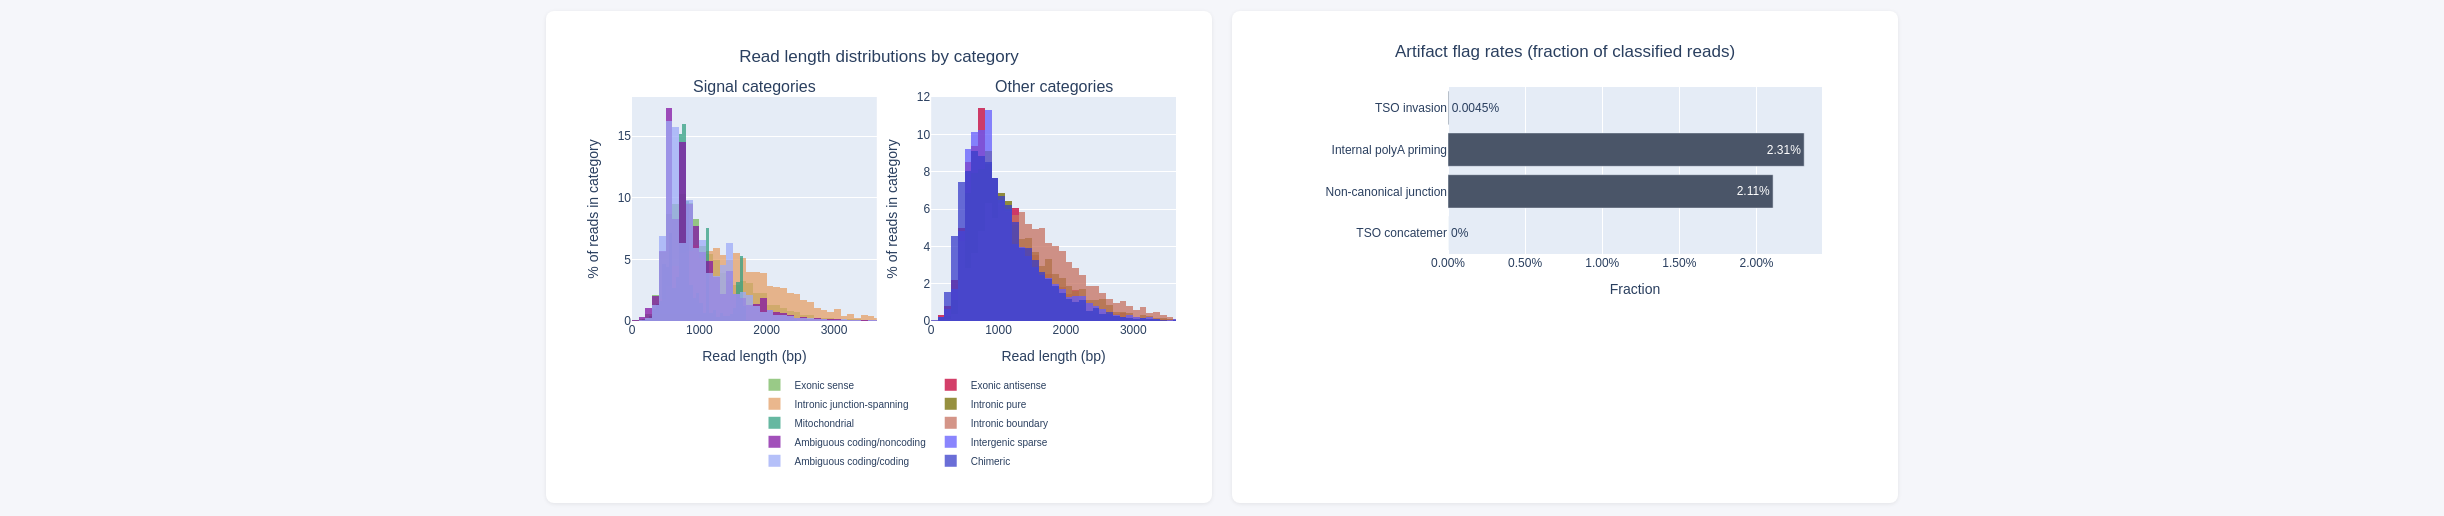
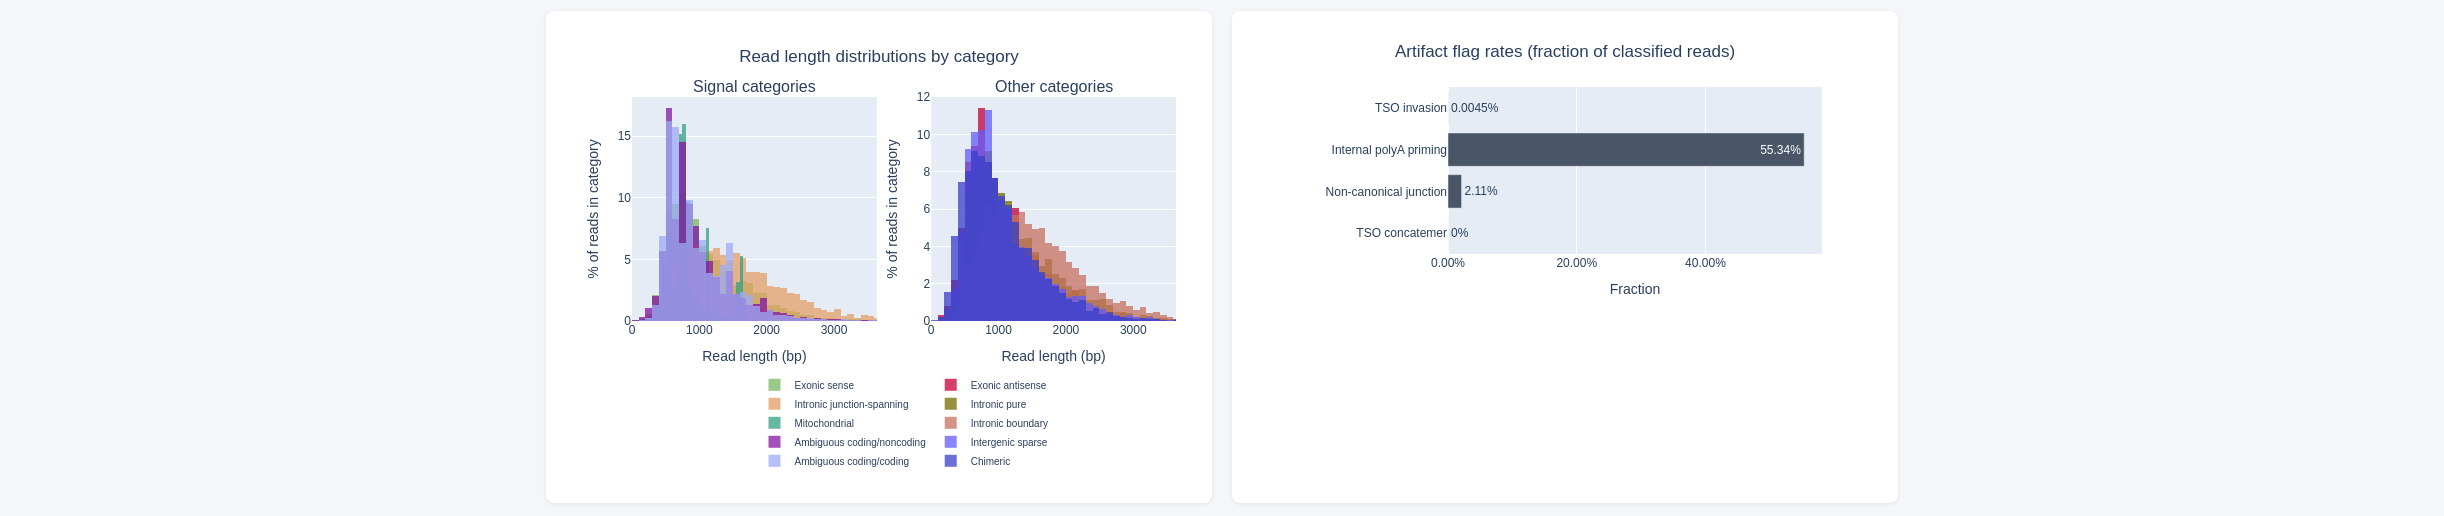
docs: example screenshots and white paper table from a 0.11.0 run
Same Kinnex sample (37.4 M reads, 2,047 cells), same arguments as the 0.10.0
run, run with the release code. The previews are cut from its report with
headless Chrome at the same width and crop; previews 1, 3 and 4 come out
pixel-identical. Against 0.10.0 only the internal-priming keys differ:
polya_priming_frac 2.31% to 55.34% under the default criterion count, plus
the new priming_* keys (templated share 65.18% of the reads with a site).

Changed region(s): [[0.5908, 0.3411, 0.7463, 0.4031], [0.6219, 0.4961, 0.7463, 0.5271], [0.5908, 0.186, 0.6219, 0.2171]]

diff --git a/docs/whitepaper.md b/docs/whitepaper.md
@@ -413,7 +413,7 @@ read. Both are reported, and the veto is off by default because it lowers the he
 
 The numbers below are from the example PacBio Kinnex run whose report is shown in the README
 screenshots: 37.4 M reads, 2,047 cells, aligned with `pbmm2`, annotated with GENCODE v45, with
-PolyASite 3.0 and FANTOM5 CAGE auto-downloaded, run with version 0.10.0. They are one sample on one protocol, not
+PolyASite 3.0 and FANTOM5 CAGE auto-downloaded, run with version 0.11.0. They are one sample on one protocol, not
 reference values — but they show what the fields look like together, which no field description
 does on its own.
 
@@ -427,7 +427,8 @@ does on its own.
 | `three_prime_anchored_frac` | 95.68% | Nearly every read's 3′ end sits within 50 bp of an atlas polyA site that passes the default support filter, the signature of an oligo(dT)-primed protocol working as designed. Version 0.8.0 loaded the atlas whole and reported 99.62% for this sample. |
 | `five_prime_anchored_frac` | 84.30% | Lower than the 3′ figure, which is the normal asymmetry: 5′ completeness depends on reverse transcription reaching the cap. |
 | `both_ends_anchored_frac` | 81.36% | Candidate complete molecules. Not a transcript-compatibility claim. |
-| `polya_priming_frac` (`multiqc.json`) | 2.31% | The internal-priming flag under `--priming-criterion a_run`, the default of 0.10.0. Under the 0.11.0 default, `count`, the flag marks the reads labelled templated (§3.3.1), which on Kinnex long reads is a much larger share (see the changelog). Sits alongside an `intergenic_hotspot` of 0.006%, i.e. flagged reads are not forming enriched intergenic loci here. |
+| `polya_priming_frac` (`multiqc.json`) | 55.34% | The reads labelled templated (§3.3.1) over all classified reads, under the default `--priming-criterion count`. 84.9% of the reads here have an observed priming site, so this sits close to the templated share; on short reads, where few reads reach the polyA, the same key is far smaller. Under `a_run`, the default of 0.10.0, this sample reads 2.31%. |
+| `priming_templated_frac` (`multiqc.json`) | 65.18% | The templated share of the 30.4 M reads with an observed priming site; 15.11% are ambiguous and 19.71% non-templated. This is the rate to compare between libraries and platforms. |
 | `tso_invasion_frac` (`multiqc.json`) | 0.0045% | Low. This metric is highly sensitive to detection settings — see §7. |
 | `mitochondrial` | 3.77% | Interpret against the tissue, not a universal threshold. |
 

diff --git a/CHANGELOG.md b/CHANGELOG.md
@@ -5,6 +5,18 @@ detected can move a reported value by orders of magnitude, so `cohort` refuses
 to pool result sets silently across versions. Any release that alters a
 reported number says so here.
 
+## Unreleased
+
+### Docs
+
+- The README screenshots and the white paper's example table come from a
+  0.11.0 run of the same Kinnex sample, with the same arguments. They were
+  from 0.10.0. Only the internal-priming values differ: `polya_priming_frac`
+  reads 55.34% instead of 2.31%, because the default `--priming-criterion
+  count` flags the reads labelled templated, and the table gains
+  `priming_templated_frac` (65.18%). Every other value is unchanged. Two
+  previews also show the 0.11.0 report wording for intergenic hotspots.
+
 ## 0.11.0 - 2026-11-25
 
 ### Reported values that change

diff --git a/README.md b/README.md
@@ -88,7 +88,7 @@ Do not rely on an aligner name alone to identify the sequencer or library. `mini
 
 The interactive HTML report also covers [sample metadata](docs/report_preview1.png), [read and base fractions](docs/report_preview3.png), [length-stratified and per-cell composition](docs/report_preview4.png), [read-length distributions and artifact flags](docs/report_preview5.png), and [the top intergenic loci](docs/report_preview6.png).
 
-These screenshots come from a 10x Kinnex sample (37.4 M reads, 2,047 cells) run with version 0.10.0.
+These screenshots come from a 10x Kinnex sample (37.4 M reads, 2,047 cells) run with version 0.11.0.
 
 ## Classification
 
